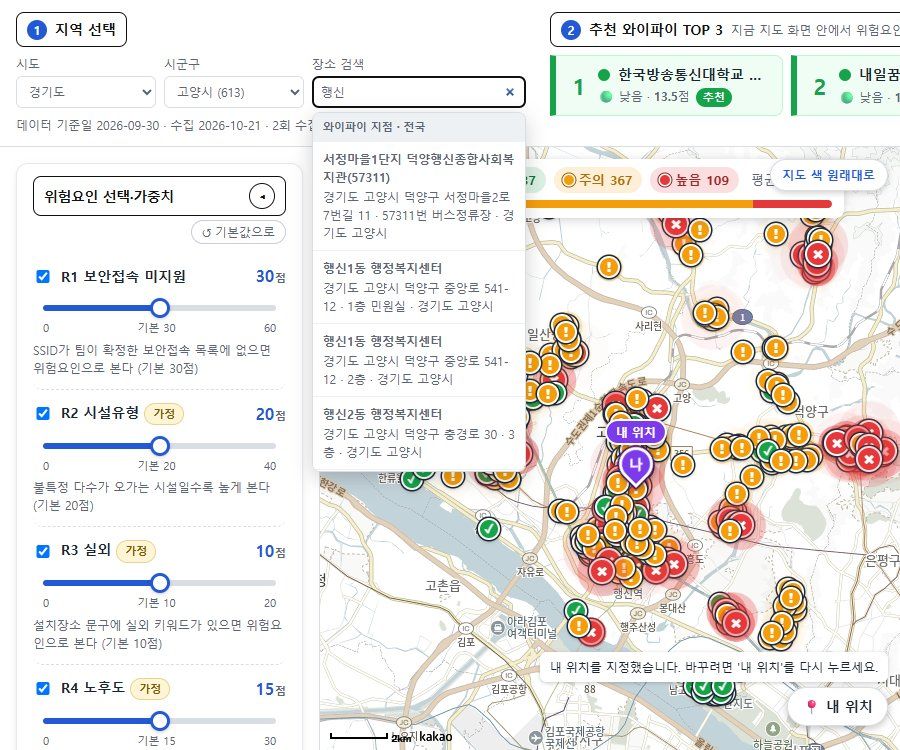
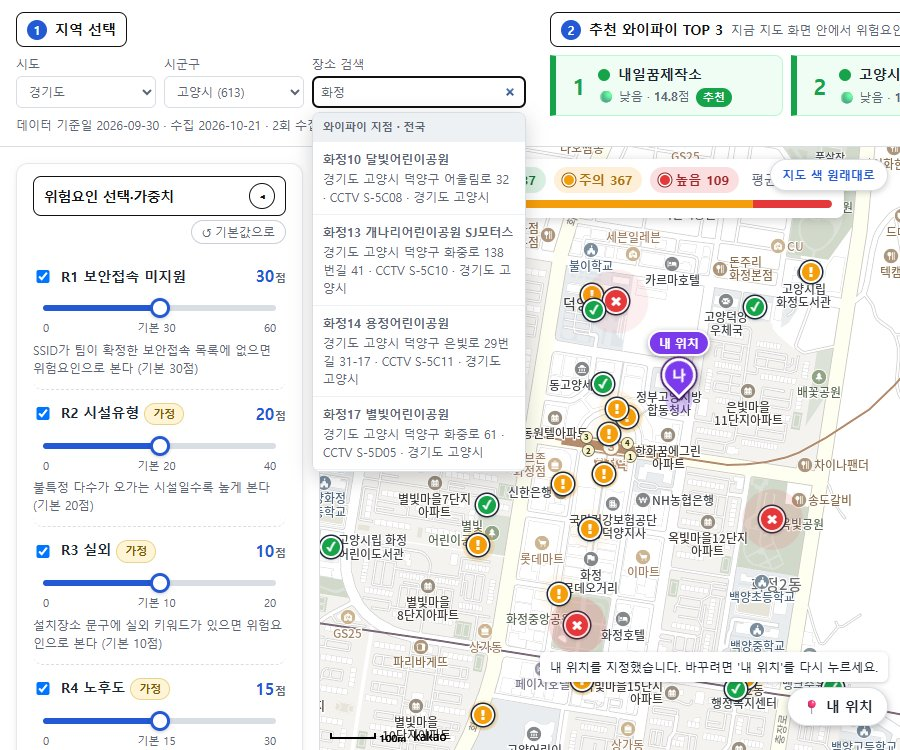
Retake README map screenshots at 100m scale
Map, weight comparison, search/my-location and point detail images are
now zoomed to the 100m scale (Goyang Hwajeong station area; point detail
around the top-ranked spot) so individual markers are readable.

diff --git a/README.md b/README.md
@@ -4,7 +4,7 @@
 
 전국 공공와이파이 지점마다 위험요인 점수(0~100)를 매겨 지도에 색으로 표시하고, 가중치 슬라이더로 채점 기준을 직접 바꿔 볼 수 있는 웹사이트. 설계 문서는 [plan.md](plan.md).
 
-![지도 화면 — 경기도 고양시 613곳, 신호등 마커·가중치 패널·추천 TOP 3·순위표](docs/images/map.jpg)
+![지도 화면 — 경기도 고양시 화정역 주변(축척 100m), 신호등 마커·가중치 패널·추천 TOP 3·순위표](docs/images/map.jpg)
 
 | 배포 | 주소 |
 |---|---|
@@ -39,7 +39,7 @@
 ![인트로 — 구글·네이버 로그인 또는 비회원](docs/images/intro.jpg)
 </details>
 
-화면은 배포 주소에서 비회원·경기도 고양시 기준으로 2026-10-21에 촬영했습니다.
+화면은 배포 주소에서 비회원·경기도 고양시 기준으로 2026-10-21에 촬영했습니다. 지도는 축척 100m로 맞췄습니다(화정역 주변, 지점 상세는 1위 지점 주변). 요약 수치와 순위표는 고양시 전체 613곳 기준입니다.
 
 | 화면 | 기능 |
 |---|---|
